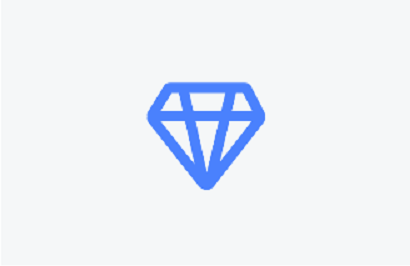
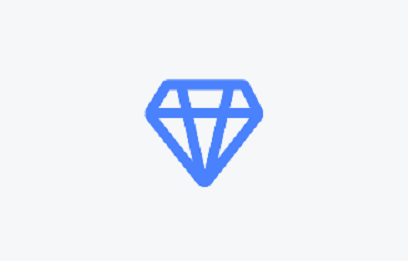
fix for VAN-1114

Changed region(s): [[0.3529, 0.2759, 0.6471, 0.6743], [0.4706, 0.6743, 0.5294, 0.7356], [0.5294, 0.6437, 0.5588, 0.6743]]

diff --git a/vtr-ui/src/app/components/pages/page-security-wifi/children/connected-home/connected-home.component.scss b/vtr-ui/src/app/components/pages/page-security-wifi/children/connected-home/connected-home.component.scss
@@ -1,145 +1,154 @@
 @import "../../../../../app.theme";
 
 .vtr-connected-home {
-	box-shadow: $drop_shadow;
-	border-radius: $border_radius;
-	background-color: $light;
-	.header {
-		.heading {
-			color: $main_darker;
-			font-size: 3.5rem;
-		}
-	}
-	.text-regular {
-		color: $main_shade;
-		font-size: 1.5rem;
-		font-weight: $weight_light;
-		padding: 1rem 1rem 1rem 0rem;
-	}
-	.peace-of-mind {
-		margin-left: 4rem;
-		padding: 2rem 2rem 0rem 2rem;
-		.sub-heading {
-			color: $main_dark;
-			font-size: 2rem;
-			font-weight: $weight_medium;
-			text-transform: uppercase;
-		}
-		.text-regular {
-			width: 75%;
-		}
-		.button-box {
-			padding: 0rem;
-			margin: 1rem;
+  box-shadow: $drop_shadow;
+  border-radius: $border_radius;
+  background-color: $light;
+  .header {
+    .heading {
+      color: $main_darker;
+      font-size: 3.5rem;
+    }
+  }
+  .text-regular {
+    color: $main_shade;
+    font-size: 1.5rem;
+    font-weight: $weight_light;
+    padding: 1rem 1rem 1rem 0rem;
+  }
+  .peace-of-mind {
+    margin-left: 4rem;
+    padding: 2rem 2rem 0rem 2rem;
+    .sub-heading {
+      color: $main_dark;
+      font-size: 2rem;
+      font-weight: $weight_medium;
+      text-transform: uppercase;
+    }
+    .text-regular {
+      width: 75%;
+    }
+    .button-box {
+      padding: 0rem;
+      margin: 1rem;
 
-			&.shift-left {
-				top: 20%;
-				left: 20%;
-				transform: translate(-12%, -12%);
-				padding-top: 1rem 0.5rem 0.5rem 0rem;
-				margin: 1rem 0.5rem 0.5rem 0rem;
-			}
-		}
-	}
-	.bullet-list {
-		margin-top: 1rem;
-		list-style: none;
-		padding: 0;
-		background-color: $light;
-		li {
-			margin: 0;
-			padding: 1rem 1rem 1rem 0;
-			color: $main_dark;
-			&.good {
-				.bullet-icon {
-					.icon-bkg {
-						background: linear-gradient($gradient_angle, $go 0%, $go_light 100%);
-						border-color: $go_dark;
-					}
-				}
-			}
-			.bullet-icon {
-				.icon-bkg {
-					display: inline-block;
-					border-radius: 50%;
-					height: 3.3rem;
-					width: 3.3rem;
-					border-width: 0.3rem;
-					border-style: solid;
-					text-align: center;
-					fa-icon {
-						font-size: 1.6rem;
-						line-height: 2.9rem;
-						color: $light;
-					}
-				}
-			}
-		}
-	}
+      &.shift-left {
+        top: 20%;
+        left: 20%;
+        transform: translate(-12%, -12%);
+        padding-top: 1rem 0.5rem 0.5rem 0rem;
+        margin: 1rem 0.5rem 0.5rem 0rem;
+      }
+    }
+  }
+  .bullet-list {
+    margin-top: 1rem;
+    list-style: none;
+    padding: 0;
+    background-color: $light;
+    li {
+      margin: 0;
+      padding: 1rem 1rem 1rem 0;
+      color: $main_dark;
+      &.good {
+        .bullet-icon {
+          .icon-bkg {
+            background: linear-gradient($gradient_angle, $go 0%, $go_light 100%);
+            border-color: $go_dark;
+          }
+        }
+      }
+      .bullet-icon {
+        .icon-bkg {
+          display: inline-block;
+          border-radius: 50%;
+          height: 3.3rem;
+          width: 3.3rem;
+          border-width: 0.3rem;
+          border-style: solid;
+          text-align: center;
+          fa-icon {
+            font-size: 1.6rem;
+            line-height: 2.9rem;
+            color: $light;
+          }
+        }
+      }
+    }
+  }
 
-	.gem-box {
-		padding: 5rem 0.5rem 5rem 5rem;
-		width: 100%;
-		height: 100%;
-		position: relative;
-		.gem {
-			top: 50%;
-			left: 50%;
-			transform: translate(-50%, -50%);
-			box-sizing: border-box;
-			background-color: $shade_lightest;
-			position: absolute;
-			width: 100%;
-			height: 100%;
-			padding: 5rem;
-			border-radius: $border_radius_sm;
-			fa-icon.icon {
-				font-size: 15rem;
-				color: $main;
-				text-align: center;
-				position: relative;
-				padding: 4rem;
-				top: 25%;
-				left: 10%;
-			}
-		}
-	}
+  .gem-box {
+    //margin: 3rem 2rem 1rem 1rem;
+    padding: 3rem 1rem 4rem 1rem;
+    //border: 1px solid red;
+    height: auto;
+    width: 100%;
+    max-width: 100%;
 
-	.row-seperator {
-		width: 100%;
-		height: 0.2rem;
-		background-color: $shade_lightest;
-		margin: 0.5rem 1.5rem 1.5rem 0rem;
-	}
+    .gem {
+      padding: 2.5rem;
+      //border: 1px solid blue;
+      width: 100%;
+      height: 100%;
+      background-color: $shade_extralight;
+      border-radius: $border_radius_sm;
 
-	.invitation-code-box {
-		margin: 1rem;
-		padding: 2rem 2rem 2rem 0rem;
-		background-color: $shade_lightest;
-		border: 0.1rem solid $shade_lighter;
-		border-radius: $border_radius;
-		text-align: center;
-		.sub-heading {
-			margin-top: 1rem;
-			color: $main_dark;
-			font-size: 2rem;
-			font-weight: $weight_medium;
-			text-transform: uppercase;
-			padding-left: 0rem;
-			.text-regular {
-				color: $main_dark;
-				font-size: 2rem;
-				font-weight: $weight_light;
-				text-transform: none;
-			}
-			.button-box {
-				padding: 0rem;
-				margin: 0.5rem;
-				&.shift-right {
-					padding: 0.5rem 0.5rem 0.5rem 0rem;
-					margin: 0.5rem 0.5rem 0.5rem 0rem;
-				}
-			}
-		}
-	}
+      img {
+        display: block;
+        margin-left: auto;
+        margin-right: auto;
+        width: 100%;
+        max-width: 110%;
+        height: auto;
+        //border: 1px solid green;
+      }
+      fa-icon.icon {
+        font-size: 15rem;
+        color: $main;
+        text-align: center;
+        position: relative;
+        padding: 2rem;
+        right: 5%;
+        //border: 1px solid green;
+      }
+    }
+  }
+
+  .row-seperator {
+    width: 100%;
+    height: 0.2rem;
+    background-color: $shade_lightest;
+    margin: 0.5rem 1.5rem 1.5rem 0rem;
+  }
+
+  .invitation-code-box {
+    margin: 1rem;
+    padding: 2rem 2rem 2rem 0rem;
+    background-color: $shade_lightest;
+    border: 0.1rem solid $shade_lighter;
+    border-radius: $border_radius;
+    text-align: center;
+    .sub-heading {
+      margin-top: 1rem;
+      color: $main_dark;
+      font-size: 2rem;
+      font-weight: $weight_medium;
+      text-transform: uppercase;
+      padding-left: 0rem;
+      .text-regular {
+        color: $main_dark;
+        font-size: 2rem;
+        font-weight: $weight_light;
+        text-transform: none;
+      }
+      .button-box {
+        padding: 0rem;
+        margin: 0.5rem;
+        &.shift-right {
+          padding: 0.5rem 0.5rem 0.5rem 0rem;
+          margin: 0.5rem 0.5rem 0.5rem 0rem;
+        }
+      }
+    }
+  }
 }

diff --git a/vtr-ui/src/app/components/pages/page-security-wifi/children/connected-home/connected-home.component.html b/vtr-ui/src/app/components/pages/page-security-wifi/children/connected-home/connected-home.component.html
@@ -103,9 +103,11 @@
 			<div class="col">
 				<div class="gem-box">
 					<div class="gem">
-						<fa-icon class="icon"
+						<!-- <fa-icon class="icon"
 						 [icon]="['far', 'gem']"
-						 center></fa-icon>
+						 center></fa-icon> -->
+						<img src="assets/images/connected-home-gem-icon.png"
+							center />
 					</div>
 				</div>
 
@@ -123,7 +125,7 @@
 					<div class="col-sm-3">
 						<div class="button-box shift-left">
 							<vtr-ui-button (onClick)="tryNow($event)"
-							 [label]="'Try Now'"></vtr-ui-button>
+								[label]="'Try Now'"></vtr-ui-button>
 						</div>
 
 					</div>
@@ -151,7 +153,7 @@
 						<div class="col-5">
 							<div class="button-box shift-right">
 								<vtr-ui-button (onClick)="enterActivationCode($event)"
-								 [label]="'Enter invitation code'"></vtr-ui-button>
+									[label]="'Enter invitation code'"></vtr-ui-button>
 							</div>
 						</div>
 					</div>
